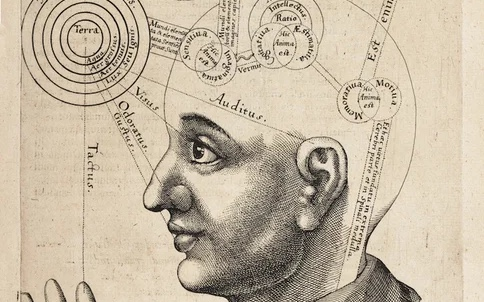
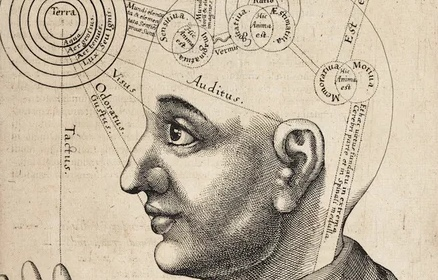
Quita los márgenes de papel de la portada y de la card del artículo
Los recortes anteriores incluían el margen de papel y la línea del
borde de la lámina a los dos costados, así que la imagen no llegaba
de borde a borde del marco. Se recortan esos márgenes: portada.jpg
pasa a 438×246 (16:9) y card.jpg a 438×280, ambos a la resolución
original del grabado, sin escalar.

diff --git a/blog.html b/blog.html
@@ -126,7 +126,7 @@
         <!-- Card destacada — artículo más reciente -->
         <a href="blog/instinto-herramienta-creativa-decisiones" class="blog-card--featured">
           <div class="blog-card--featured__image">
-            <img src="images/blog/ilusion-de-productividad-ia/card.jpg" width="484" height="302" alt="Detalle de un grabado antiguo: un hombre de perfil con círculos y diagramas que salen de su cabeza y conectan los sentidos con la mente" loading="lazy" />
+            <img src="images/blog/ilusion-de-productividad-ia/card.jpg" width="438" height="280" alt="Detalle de un grabado antiguo: un hombre de perfil con círculos y diagramas que salen de su cabeza y conectan los sentidos con la mente" loading="lazy" />
           </div>
           <div class="blog-card--featured__content">
             <span class="blog-card--featured__label">[ ARTÍCULO DESTACADO ]</span>

diff --git a/blog/instinto-herramienta-creativa-decisiones.html b/blog/instinto-herramienta-creativa-decisiones.html
@@ -120,7 +120,7 @@
     <div class="article-cover">
       <div class="article-column">
         <div class="article-cover__img">
-          <img src="../images/blog/ilusion-de-productividad-ia/portada.jpg" width="484" height="272" alt="Detalle de un grabado antiguo: un hombre de perfil con círculos y diagramas que salen de su cabeza y conectan los sentidos con la mente" />
+          <img src="../images/blog/ilusion-de-productividad-ia/portada.jpg" width="438" height="246" alt="Detalle de un grabado antiguo: un hombre de perfil con círculos y diagramas que salen de su cabeza y conectan los sentidos con la mente" />
         </div>
       </div>
     </div>

diff --git a/docs/specs/06-blog.md b/docs/specs/06-blog.md
@@ -162,7 +162,7 @@ Hover: `translate(3px, 3px)` + sombra `3px 3px 0 0`
 | `3-cosas-ux` | `blog/3-cosas-ux.html` | 3 cosas que aprendí de UX |
 | `6-preguntas-ux` | `blog/6-preguntas-ux.html` | 6 preguntas de UX |
 
-> Artículo `instinto-herramienta-creativa-decisiones`: publicado el 2026-10-26, categoría `IA · CREATIVIDAD`. Propósito: pieza ancla del boletín y destino de los posts de LinkedIn. URL: `https://uxuaria.com/blog/instinto-herramienta-creativa-decisiones`. La URL original, `/blog/ilusion-de-productividad-ia`, redirige con 301 desde `_redirects` porque la enlazan posts de LinkedIn; no se debe quitar esa regla. Las imágenes siguen en `images/blog/ilusion-de-productividad-ia/`. Card destacada en `blog.html`; `metodo-harada` pasa al grid como card regular. Artículos relacionados: `diferencias-creacion-ia-vs-diseno` y `prompt-ear-no-es-disenar`. Portada: `images/blog/ilusion-de-productividad-ia/portada.jpg` (484×272, recorte 16:9 del grabado a resolución original, sin escalar), usada en `.article-cover`. La card destacada de `blog.html` usa `card.jpg` (484×302), otro recorte del grabado a resolución original que incluye la cara completa, porque el recuadro de la card cambia de proporción según el ancho y cortaba el mentón. Para `og:image`, `twitter:image` y el schema se usa `og.jpg` (1280×720, grabado completo centrado sobre fondo crema `#E2D3BD`), porque las vistas previas de redes piden imágenes más grandes.
+> Artículo `instinto-herramienta-creativa-decisiones`: publicado el 2026-10-26, categoría `IA · CREATIVIDAD`. Propósito: pieza ancla del boletín y destino de los posts de LinkedIn. URL: `https://uxuaria.com/blog/instinto-herramienta-creativa-decisiones`. La URL original, `/blog/ilusion-de-productividad-ia`, redirige con 301 desde `_redirects` porque la enlazan posts de LinkedIn; no se debe quitar esa regla. Las imágenes siguen en `images/blog/ilusion-de-productividad-ia/`. Card destacada en `blog.html`; `metodo-harada` pasa al grid como card regular. Artículos relacionados: `diferencias-creacion-ia-vs-diseno` y `prompt-ear-no-es-disenar`. Portada: `images/blog/ilusion-de-productividad-ia/portada.jpg` (438×246, recorte 16:9 del grabado a resolución original, sin escalar y sin los márgenes de papel de los costados), usada en `.article-cover`. La card destacada de `blog.html` usa `card.jpg` (438×280), otro recorte del grabado a resolución original que incluye la cara completa, porque el recuadro de la card cambia de proporción según el ancho y cortaba el mentón. Para `og:image`, `twitter:image` y el schema se usa `og.jpg` (1280×720, grabado completo centrado sobre fondo crema `#E2D3BD`), porque las vistas previas de redes piden imágenes más grandes.
 > Portada de `metodo-harada`: `images/blog/metodo-harada/sakura64-intro-tablero.jpg` (1600×1000), card regular en `blog.html` desde el 2026-10-26 (antes, card destacada). Los screenshots de SAKURA 64 del cuerpo viven en `images/blog/metodo-harada/` y usan `.article-figure`.
 > Portada de `prompt-ear-no-es-disenar`: `images/blog/articulo003.png` (1267×832). Usada en `blog.html` (card regular), `blog/prompt-ear-no-es-disenar.html` (`.article-cover__img`) y en los cards relacionados de los otros artículos.
 > Portada de `diferencias-creacion-ia-vs-diseno`: `images/blog/articulo004.png` (1408×768). Usada en `blog.html` (card regular) y en `blog/diferencias-creacion-ia-vs-diseno.html` (`.article-cover__img`).
